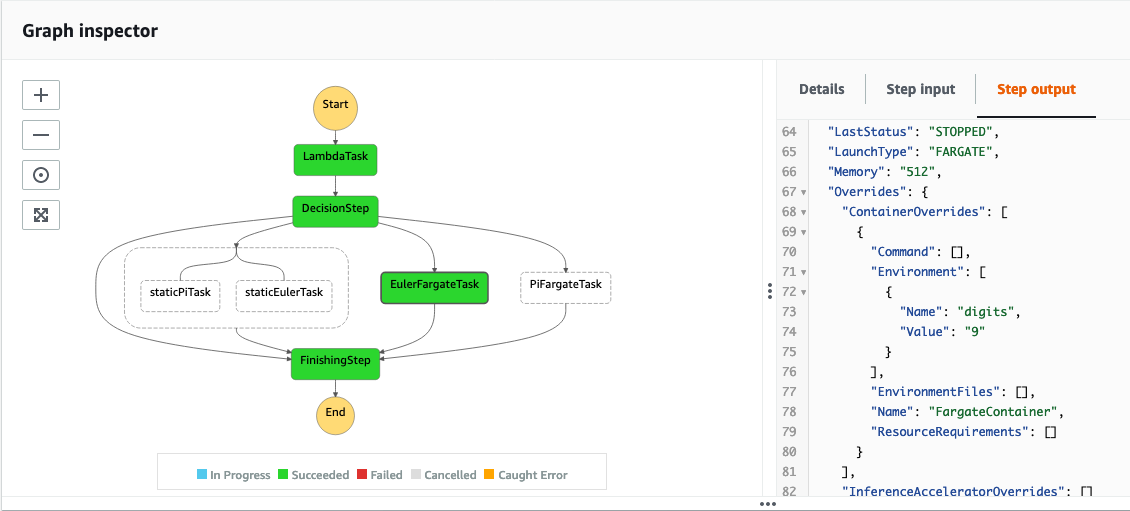
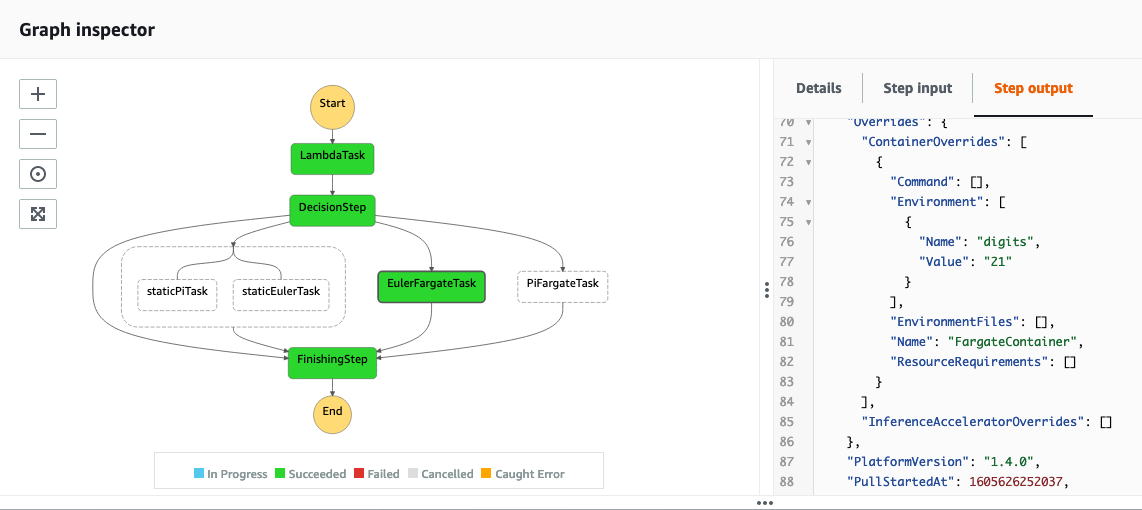
Cleaning up outputs to be more organized

diff --git a/lib/stacks/StepFunctionStack.ts b/lib/stacks/StepFunctionStack.ts
@@ -35,6 +35,7 @@ export default class StepFunctionStack extends Stack {
       dockerfileLocation: join(__dirname, "../../src/fargate/pi"),
       repositoryName: "digits-of-pi",
       logGroupName: "PiLogGroup",
+      resultPath: "$.piValue",
       integrationPattern: IntegrationPattern.WAIT_FOR_TASK_TOKEN,
       environment: [
         {
@@ -56,6 +57,7 @@ export default class StepFunctionStack extends Stack {
       repositoryName: "digits-of-euler",
       logGroupName: "EulerLogGroup",
       integrationPattern: IntegrationPattern.RUN_JOB,
+      resultPath: "$.eulerValue",
       environment: [
         {
           name: "digits",
@@ -85,7 +87,9 @@ export default class StepFunctionStack extends Stack {
 
     const stateMachineDefinition = Chain.start(decider.task);
 
-    const staticParallelStep = new Parallel(this, "StaticParallelStep");
+    const staticParallelStep = new Parallel(this, "StaticParallelStep", {
+      resultPath: "$.parallelValues",
+    });
     staticParallelStep.branch(staticPi);
     staticParallelStep.branch(staticEuler);
     staticParallelStep.next(finishingStep);

diff --git a/lib/constructs/FargateTask.ts b/lib/constructs/FargateTask.ts
@@ -28,6 +28,7 @@ export interface FargateClusterProps {
   logGroupName: string,
   integrationPattern: IntegrationPattern,
   environment: TaskEnvironmentVariable[],
+  resultPath?: string,
 }
 
 export default class FargateCluster extends Construct {
@@ -46,7 +47,8 @@ export default class FargateCluster extends Construct {
       dockerfileLocation,
       logGroupName,
       integrationPattern,
-      environment
+      environment,
+      resultPath,
     } = props;
 
     this.taskDefinition = new FargateTaskDefinition(this, "FargateTaskDefinition", {
@@ -68,6 +70,7 @@ export default class FargateCluster extends Construct {
         cluster: cluster,
         taskDefinition: this.taskDefinition,
         assignPublicIp: true,
+        resultPath: resultPath ?? '$',
         containerOverrides: [
           {
             environment,
